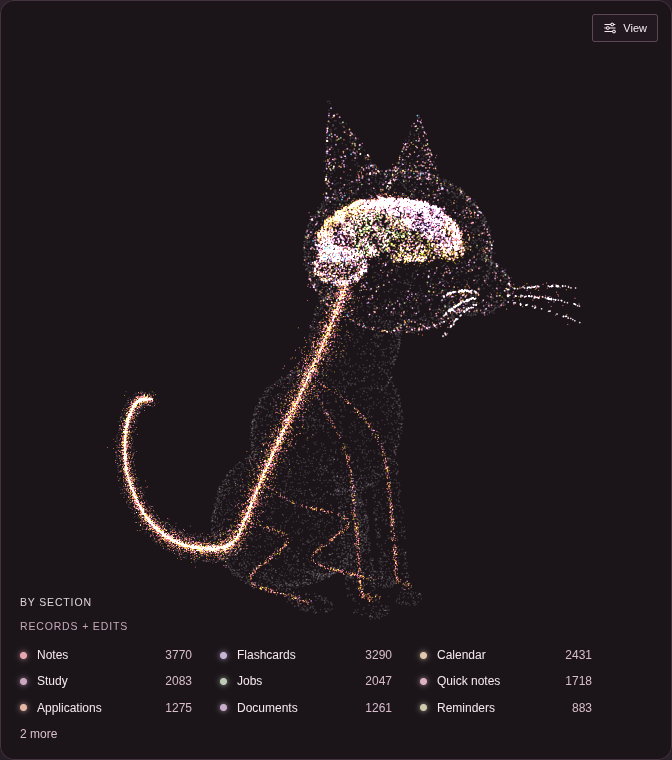
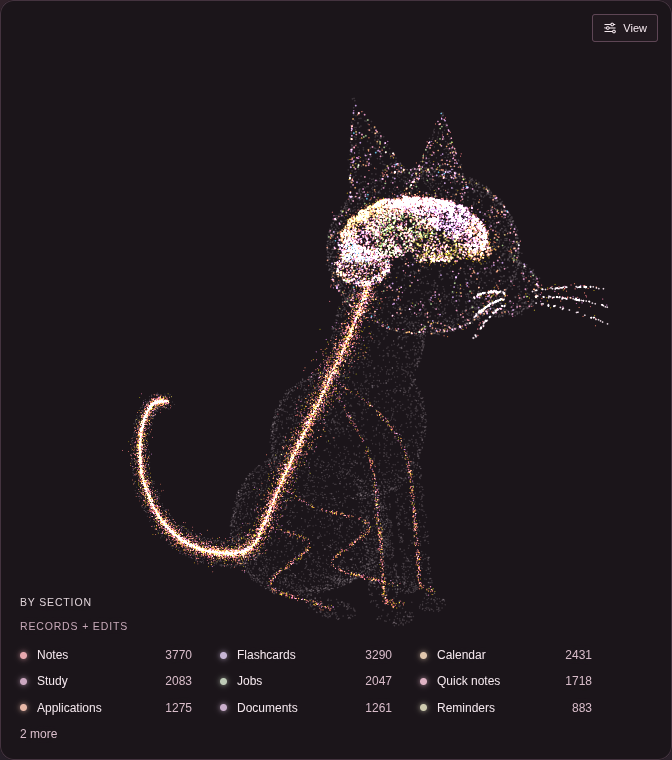
Brain: View panel starts closed; the open panel reframes the cat beside it
The View panel opens from its button (still remembered). While it is open
the scene shifts its camera view offset so the cat is framed in the stage
left of the panel (fit to the uncovered width); closed, the cat is centred.

Changed region(s): [[0.1562, 0.1513, 0.9062, 0.8171]]

diff --git a/web/src/lib/brain/brainScene.ts b/web/src/lib/brain/brainScene.ts
@@ -51,6 +51,8 @@ export interface BrainScene {
   setBackdrop(backdrop: BrainBackdrop): void;
   setMotion(turning: boolean, speed: number): void;
   setPointSize(scale: number): void;
+  /** Pixels covered on the right (the open View panel): the figure is framed in the stage left of them. */
+  setInset(right: number): void;
   setActive(active: boolean): void;
   /** Viewport position of node `index`, or null when it is behind the camera. */
   screenPoint(index: number): { x: number; y: number } | null;
@@ -194,6 +196,9 @@ export function createBrainScene(host: HTMLElement, opts: BrainSceneOptions): Br
   let cameraTo = new THREE.Vector3();
   let fitted = false;
   let relayout = false;
+  let inset = 0;
+  let viewWidth = 1;
+  let viewHeight = 1;
 
   let active = true;
   let intersecting = true;
@@ -209,7 +214,8 @@ export function createBrainScene(host: HTMLElement, opts: BrainSceneOptions): Br
 
   function fitDistance() {
     const vertical = THREE.MathUtils.degToRad(camera.fov) / 2;
-    const horizontal = Math.atan(Math.tan(vertical) * camera.aspect);
+    // Fit the width left of the inset, not the whole canvas.
+    const horizontal = Math.atan(Math.tan(vertical) * Math.max(0.2, (viewWidth - Math.min(inset, viewWidth * 0.6)) / viewHeight));
     return (frame.radius / Math.sin(Math.min(vertical, horizontal))) * 1.02;
   }
   function homePosition() {
@@ -229,8 +235,15 @@ export function createBrainScene(host: HTMLElement, opts: BrainSceneOptions): Br
   function resize() {
     const width = Math.max(1, host.clientWidth);
     const height = Math.max(1, host.clientHeight);
+    viewWidth = width;
+    viewHeight = height;
     renderer.setSize(width, height, false);
-    camera.aspect = width / height;
+    // With an inset, the canvas shows the right part of a wider frame whose centre is the middle
+    // of the uncovered area, so the figure sits there instead of under the panel.
+    const shift = Math.min(inset, width * 0.6);
+    camera.aspect = (width + shift) / height;
+    if (shift > 0) camera.setViewOffset(width + shift, height, shift, 0, width, height);
+    else camera.clearViewOffset();
     camera.updateProjectionMatrix();
     const scale = renderer.getDrawingBufferSize(new THREE.Vector2()).y / (2 * Math.tan(THREE.MathUtils.degToRad(camera.fov) / 2));
     material.uniforms.uScale.value = scale;
@@ -577,6 +590,17 @@ export function createBrainScene(host: HTMLElement, opts: BrainSceneOptions): Br
     setMotion(on, nextSpeed) {
       turning = on;
       speed = nextSpeed;
+      invalidate();
+    },
+    setInset(right) {
+      const next = Math.max(0, Math.round(right));
+      if (next === inset) return;
+      inset = next;
+      resize();
+      if (fitted) {
+        cameraFrom = null;
+        camera.position.setLength(fitDistance());
+      }
       invalidate();
     },
     setPointSize(scale) {

diff --git a/web/src/lib/brain/BrainStage.svelte b/web/src/lib/brain/BrainStage.svelte
@@ -1,6 +1,6 @@
 <!-- The Brain look on home: every record and every edit in the workspace as one glowing point. -->
 <script lang="ts">
-  import { onMount } from "svelte";
+  import { onMount, tick } from "svelte";
   import { api, type BrainData, type BrainNode } from "../api";
   import { webglAvailable } from "../graph3d";
   import { THEME_EVENT } from "../themes";
@@ -249,10 +249,19 @@
     }
   }
 
+  /** The open View panel covers the stage's right edge: the scene frames the cat left of it. */
+  function measureInset() {
+    if (!scene || !root) return;
+    const panel = view.panel ? root.querySelector(".controls .panel") : null;
+    scene.setInset(panel ? root.getBoundingClientRect().right - panel.getBoundingClientRect().left + 8 : 0);
+  }
+
   onMount(() => {
     let disposed = false;
     let created: BrainScene | null = null;
     void load();
+    const stageSize = new ResizeObserver(() => measureInset());
+    if (root) stageSize.observe(root);
     if (!renderProblem)
       void import("./brainScene").then(({ createBrainScene }) => {
         if (disposed || !host) return;
@@ -285,6 +294,7 @@
     window.addEventListener(THEME_EVENT, onTheme);
     return () => {
       disposed = true;
+      stageSize.disconnect();
       window.removeEventListener(THEME_EVENT, onTheme);
       created?.destroy();
       scene = null;
@@ -335,6 +345,10 @@
   });
   $effect(() => { scene?.setMotion(view.turning && !reducedMotion, view.speed); });
   $effect(() => { scene?.setPointSize(view.pointSize); });
+  $effect(() => {
+    void view.panel;
+    if (scene) void tick().then(measureInset);
+  });
   $effect(() => { scene?.setActive(active); });
   $effect(() => {
     if (focusKey !== null && model && !model.groups.some((group) => group.key === focusKey)) focusKey = null;

diff --git a/web/src/lib/brain/brainLayout.ts b/web/src/lib/brain/brainLayout.ts
@@ -644,8 +644,8 @@ function anatomy(data: BrainData, model: BrainModel, parents: Int32Array, times:
     const c = along(SPINE, 0.06 + (0.88 * (k + 0.5)) / cordOnly.length);
     anchors.set([c[0], c[1] + 0.22, c[2] + 0.3], g * 3);
   });
-  // Framed a little left of centre, so the face clears the View panel, and low, so the cat sits above the legend.
-  return { anchors, regions: null, whiskers: Int32Array.from(whiskers), center: [0.2, 3.1, 0] as Vec, radius: 4.4 };
+  // Framed low, so the cat sits above the legend; the open View panel reframes it (scene inset).
+  return { anchors, regions: null, whiskers: Int32Array.from(whiskers), center: [-0.2, 3.1, 0] as Vec, radius: 4.4 };
 }
 
 // ── Spheres ────────────────────────────────────────────────────────────────

diff --git a/web/src/lib/brain/brainSettings.ts b/web/src/lib/brain/brainSettings.ts
@@ -44,7 +44,7 @@ export const DEFAULT_BRAIN_VIEW: BrainView = {
   scaffold: true,
   pointSize: 1,
   background: "transparent",
-  panel: true,
+  panel: false,
 };
 
 const oneOf = <T extends string>(options: { id: T }[], value: unknown, fallback: T): T =>

diff --git a/docs/GUIDE.md b/docs/GUIDE.md
@@ -616,7 +616,9 @@ nearest the brain, with sparse nerves down the four legs and a faint halo of
 edits around the records they changed. The cat builds itself from the tail tip
 up. Colours come from the active theme and change with it; inside a group, each
 record type and each kind of edit (save, create, delete, status, review…) has its
-own shade. Its View panel sets the layout (Anatomy, Spheres, Wheel), grouping
+own shade. The **View** button opens its View panel (closed at first; whether it is
+open is remembered, and while it is open the cat is framed beside it). It sets the
+layout (Anatomy, Spheres, Wheel), grouping
 (section, navigation group or type), labels, turning and speed, edit→record
 lines, the body scaffold, the background (Transparent, or Black for the original
 night sky), point size and colours: pick any group's colour from the theme's
